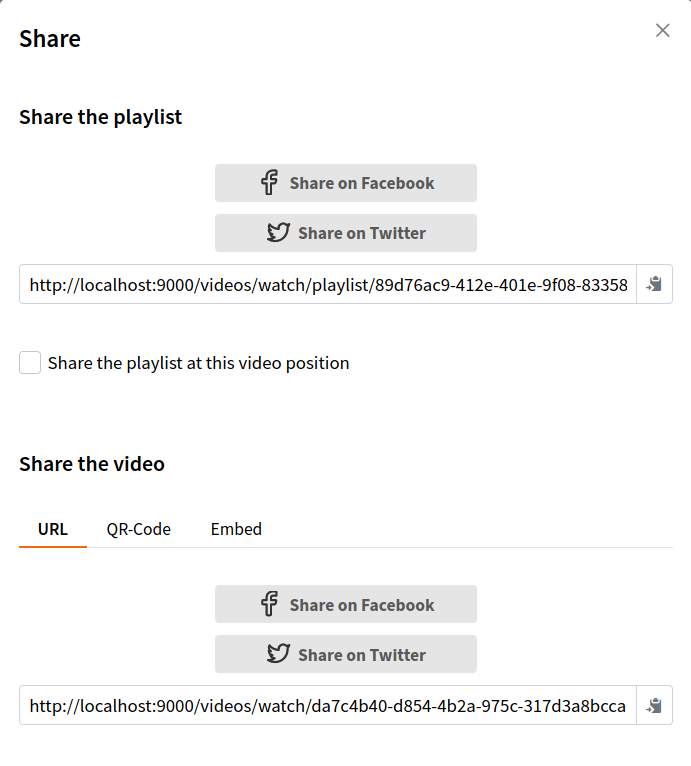
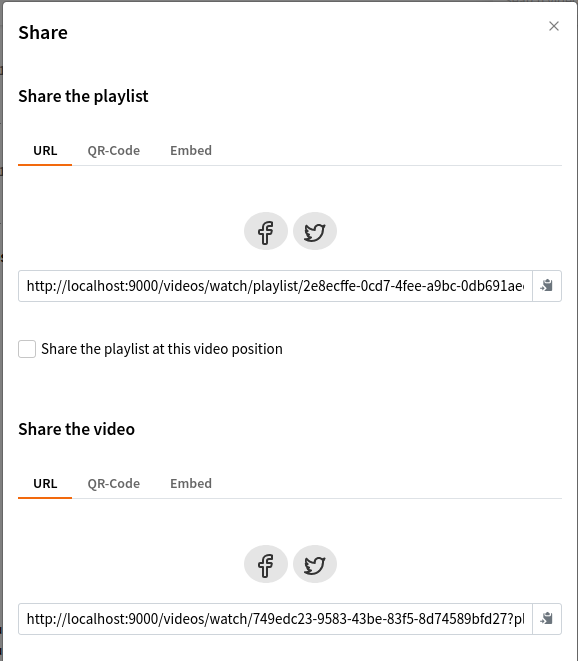
Improve buttons display

Changed region(s): [[0.0, 0.0, 1.0, 1.0], [0.1557, 0.2118, 0.2491, 0.2421], [0.0623, 0.2118, 0.0934, 0.2421]]

diff --git a/client/common-client-plugin.js b/client/common-client-plugin.js
@@ -6,80 +6,62 @@ async function register ({ registerHook }) {
     target: 'action:router.navigation-end',
     handler: async ({ path }) => {
       if (/^\/videos\/watch/.test(path)) {
-        try {
-          // Get Share button div element
-          const share = await waitForRendering('my-video-watch .video-actions .action-button:nth-child(3)')
+        onModalOpen(() => {
+          createTabObserver({ video: true, playlist: /playlist/.test(path) })
+        })
+      }
 
-          share.addEventListener('click', async () => {
-            try {
-              if (/playlist/.test(path)) {
-                await displayButtons('playlist')
-              }
-              await createTabObserver()
-            } catch (error) {
-              console.error(error)
-            }
-          })
-        } catch (error) {
-          console.error(error)
-        }
+      if (/^\/my-account\/video-playlists/.test(path)) {
+        onModalOpen(() => {
+          createTabObserver({ playlist: true })
+        })
       }
     }
   })
-}
-
-async function waitForRendering (selector) {
-   // Waiting for DOMContent updated with a timeout of 5 seconds
-   await new Promise((resolve, reject) => {
-     const timeout = setTimeout(() => {
-       clearInterval(interval)
-       reject(new Error('No element found'))
-     }, 5000)
-
-     // Waiting for component in DOM
-     const interval = setInterval(() => {
-       if (document.querySelector(selector) !== null) {
-         clearTimeout(timeout)
-         clearInterval(interval)
-         resolve()
-       }
-     }, 10)
-   })
-
-  return document.querySelector(selector)
 }
 
 function createButton ({ name, sharerLink, inputRef, iconHTML }) {
   const icon = document.createElement('span')
   icon.innerHTML = iconHTML
 
-  const text = document.createElement('span')
-  text.innerText = `Share on ${name}`
-
   const button = document.createElement('a')
   button.target = '_blank'
-  button.classList.add('video-sharing', 'fade')
+  button.tabIndex = 0
+  button.title = `Share on ${name}`
+  button.classList.add('video-sharing')
   button.appendChild(icon)
-  button.appendChild(text)
-  button.addEventListener('click', () => {
+
+  const getLink = () => {
     inputRef.dispatchEvent(new Event('click'))
 
     const videoLink = inputRef.value
     button.href = sharerLink + videoLink
-  })
+  }
+
+  getLink()
+
+  inputRef.addEventListener('blur', getLink)
+  button.addEventListener('mouseover', getLink)
+  button.addEventListener('mousedown', getLink)
+  button.addEventListener('touchstart', getLink)
+  button.addEventListener('focus', getLink)
 
   return button
 }
 
-async function displayButtons (type) {
-  const inputReadOnlyCopy = await waitForRendering(`ngb-modal-window .${type} my-input-readonly-copy`)
+function displayButtons (type) {
+  const inputReadOnlyCopy = document.querySelector(`ngb-modal-window .${type} my-input-readonly-copy`)
   const nativeInput = inputReadOnlyCopy.querySelector('input')
 
   // If buttons already injected remove them
-  const buttons = inputReadOnlyCopy.parentElement.querySelectorAll('.video-sharing')
-  buttons.forEach(button => {
-    button.remove()
+  const buttonsContainers = inputReadOnlyCopy.parentElement.querySelectorAll('.video-sharing-container')
+  buttonsContainers.forEach(buttonsContainer => {
+    buttonsContainer.remove()
   })
+
+  const container = document.createElement('div')
+  container.classList.add('video-sharing-container')
+
 
   const facebookButton = createButton({
     name: 'Facebook',
@@ -95,47 +77,67 @@ async function displayButtons (type) {
     iconHTML: twitterIcon
   })
 
-  inputReadOnlyCopy.parentElement.insertBefore(facebookButton, inputReadOnlyCopy)
-  inputReadOnlyCopy.parentElement.insertBefore(twitterButton, inputReadOnlyCopy)
+  container.appendChild(facebookButton)
+  container.appendChild(twitterButton)
+
+  inputReadOnlyCopy.parentElement.insertBefore(container, inputReadOnlyCopy)
 }
 
-async function createTabObserver () {
-  const runAction = async target => {
-    try {
-      const selected = target.getAttribute('aria-selected')
+function onModalOpen (callback) {
+  const observer = new MutationObserver(mutations => {
+    for (const mutation of mutations) {
+      const { type, addedNodes } = mutation
 
-      if (selected) {
-        await displayButtons('video')
+      if (type === 'childList') {
+        addedNodes.forEach(addedNode => {
+          if (addedNode.localName === 'ngb-modal-window') {
+            if (document.querySelector('ngb-modal-window .video') || document.querySelector('ngb-modal-window .playlist')) {
+              callback()
+            }
+          }
+        })
       }
+    }
+  })
 
-    } catch (error) {
-      console.error(error)
+  observer.observe(document.body, {
+    childList: true
+  })
+}
+
+function createTabObserver ({ video, playlist }) {
+  const runAction = target => {
+    const selected = target.getAttribute('aria-selected')
+
+    if (selected) {
+      if (video) displayButtons('video')
+      if (playlist) displayButtons('playlist')
     }
   }
 
+  const observeTab = async type => {
+    const observer = new MutationObserver(mutations => {
+      for (const mutation of mutations) {
+        const { type, attributeName, target } = mutation
 
-  const nav = await waitForRendering('ngb-modal-window .video .nav')
-  const tab = nav.querySelectorAll('.nav-link')[0]
-
-  await runAction(tab)
-
-  const observer = new MutationObserver(async mutations => {
-    for (const mutation of mutations) {
-      const {
-        type,
-        attributeName,
-        target
-      } = mutation
-
-      if ((type === 'attributes') && (attributeName === 'aria-selected') && (target.getAttribute('aria-selected') === 'true')) {
-        await runAction(target)
+        if ((type === 'attributes') && (attributeName === 'aria-selected') && (target.getAttribute('aria-selected') === 'true')) {
+          runAction(target)
+        }
       }
-    }
-  })
+    })
 
-  observer.observe(tab, {
-    attributes: true
-  })
+    const nav = document.querySelector(`ngb-modal-window .${type} .nav`)
+    const tab = nav.querySelectorAll('.nav-link')[0]
+
+    runAction(tab)
+
+    observer.observe(tab, {
+      attributes: true
+    })
+  }
+
+  if (video) observeTab('video')
+  if (playlist) observeTab('playlist')
 }
 
 export {

diff --git a/assets/css/client-helpers.css b/assets/css/client-helpers.css
@@ -1,67 +1,48 @@
-ngb-modal-window .video-sharing.fade {
-  animation: fade 0.4s;
-  animation-timing-function: ease-in-out;
-}
-
-@keyframes fade {
-  from {
-    transform: translateY(-100%);
-    opacity: 0;
-    height: 0;
-  }
-
-  to {
-    transform: translateY(0);
-    opacity: 1;
-    height: max-content;
-  }
-}
-
 ngb-modal-window .playlist {
   display: flex;
   flex-direction: column;
 }
 
-ngb-modal-window .video-sharing {
-  margin-bottom: 10px;
-  border: none;
-  height: max-content;
-  min-width: 50%;
-  line-height: 30px;
-  border-radius: 3px;
-  text-align: center;
-  padding: 0 13px;
-  cursor: pointer;
-  background-color: #e5e5e5;
-  color: #585858;
-  background-size: auto auto;
-  font-weight: bold;
-  align-self: center;
+ngb-modal-window .video-sharing-container {
+  margin-bottom: 25px;
 }
 
-@media only screen and (min-width: 500px) {
-  ngb-modal-window .video-sharing {
-    min-width: 40%;
-  }
+ngb-modal-window .video-sharing {
+  margin-right: 5px;
+  border: none;
+  height: max-content;
+  border-radius: 50%;
+  padding: 10px;
+  cursor: pointer;
+  background-color: #e5e5e5;
+  background-size: auto auto;
+}
+
+ngb-modal-window .video-sharing:last-child {
+  margin-right: 0;
 }
 
 ngb-modal-window .video-sharing:hover,
 ngb-modal-window .video-sharing:active,
-ngb-modal-window .video-sharing:focus {
+ngb-modal-window .video-sharing:focus,
+ngb-modal-window .video-sharing:focus-within {
   text-decoration: none !important;
   outline: none !important;
-}
-
-ngb-modal-window .video-sharing span {
-  width: 21px;
-}
-
-ngb-modal-window .video-sharing span:first-child {
-  margin-right: 5px;
+  opacity: 1;
 }
 
 ngb-modal-window .video-sharing span svg {
-  position: relative;
-  margin-right: 0;
-  top: -2px;
+  width: 24px;
+  height: 24px;
+  fill: var(--ForegroundColor);
+  stroke: transparent;
+  opacity: 0.5;
+  transition: opacity 0.15s ease-in-out;
+}
+
+ngb-modal-window .video-sharing:hover span svg,
+ngb-modal-window .video-sharing:active span svg,
+ngb-modal-window .video-sharing:focus span svg,
+ngb-modal-window .video-sharing:focus-within span svg {
+  opacity: 1;
 }
